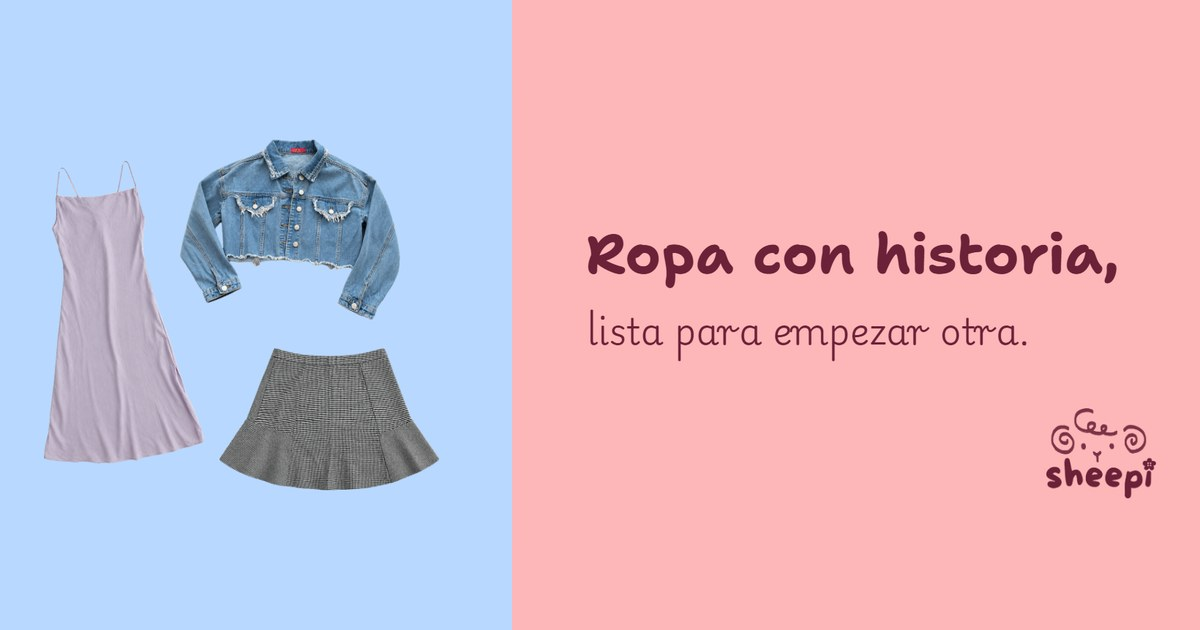
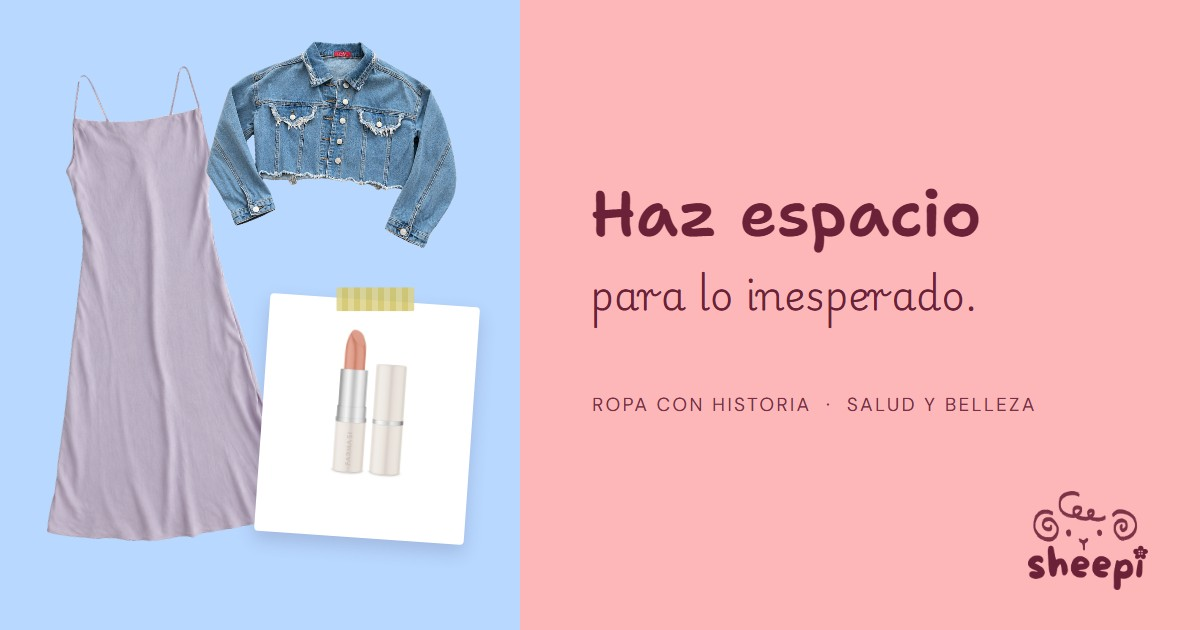
publicar: 2026-11-24T18:23:49.620Z

diff --git a/index.html b/index.html
@@ -2,8 +2,8 @@
 <html lang="es">
 <head>
 <meta charset="utf-8"><meta name="referrer" content="no-referrer"><meta name="viewport" content="width=device-width, initial-scale=1">
-<meta name="description" content="Sheepi · ropa con historia en Panamá y Salud y belleza por pedido. Elige tus favoritas y coordina por WhatsApp.">
-<meta name="theme-color" content="#F9EFE6"><meta property="og:site_name" content="Sheepi"><meta property="og:title" content="Sheepi · Tienda en Panamá"><meta property="og:locale" content="es_PA"><meta property="og:description" content="Ropa con historia, lista para empezar otra."><meta property="og:url" content="https://sheepipty.github.io/"><meta property="og:type" content="website"><meta property="og:image" content="https://sheepipty.github.io/vista-previa.jpg?v=2"><meta property="og:image:width" content="1200"><meta property="og:image:height" content="630"><meta property="og:image:alt" content="Sheepi: prendas y logo de la oveja sobre fondo rosa y celeste"><meta name="twitter:card" content="summary_large_image">
+<meta name="description" content="Sheepi · Haz espacio para lo inesperado. Ropa con historia y Salud y belleza por pedido en Panamá; elige tus favoritos y coordina por WhatsApp.">
+<meta name="theme-color" content="#F9EFE6"><meta property="og:site_name" content="Sheepi"><meta property="og:title" content="Sheepi · Tienda en Panamá"><meta property="og:locale" content="es_PA"><meta property="og:description" content="Haz espacio para lo inesperado."><meta property="og:url" content="https://sheepipty.github.io/"><meta property="og:type" content="website"><meta property="og:image" content="https://sheepipty.github.io/vista-previa.jpg?v=3"><meta property="og:image:width" content="1200"><meta property="og:image:height" content="630"><meta property="og:image:alt" content="Sheepi · Haz espacio para lo inesperado: prendas, un labial y el logo de la oveja sobre fondo celeste y rosa"><meta name="twitter:card" content="summary_large_image">
 <title>Sheepi</title><link rel="icon" href="favicon.ico?v=2" sizes="any"><link rel="icon" type="image/png" sizes="32x32" href="favicon-32.png?v=2"><link rel="apple-touch-icon" href="apple-touch-icon.png?v=2">
 <link rel="preconnect" href="https://fonts.googleapis.com"><link rel="preconnect" href="https://fonts.gstatic.com" crossorigin>
 <link rel="stylesheet" href="https://fonts.googleapis.com/css2?family=Shantell+Sans:wght@600;700&family=Playwrite+ES:wght@300;400&family=DM+Sans:opsz,wght@9..40,400;9..40,500;9..40,600&display=swap">
@@ -35,7 +35,7 @@
   <div id="carrusel" class="carrusel" aria-roledescription="carrusel" aria-label="Recién llegadas"><div id="pista" class="pista"></div></div><div id="puntos" class="puntos" role="group" aria-label="Elegir posición del carrusel"></div>
 </section>
 <section id="seccion-catalogo" aria-label="Catálogo">
-  <div class="sec-cab titulo-catalogo"><h2>Encuentra tu favorita</h2></div>
+  <div class="sec-cab titulo-catalogo"><h2>Encuentra tu favorita</h2><p id="sublema" class="sublema"></p></div>
   <p id="aviso" role="status" aria-live="polite">Cargando catálogo…</p>
   <nav id="lineas" class="lineas" aria-label="Líneas de productos" hidden></nav>
   <div class="tienda"><nav class="grupos" aria-label="Categorías"><ol id="categorias"></ol></nav><div class="contenido">

diff --git a/app.js b/app.js
@@ -84,7 +84,7 @@ async function cargarDatos(){
 }
 function avisar(avisos){if(!avisos.length)return;avisosBolsa=avisos.join(' ');$('#aviso-bolsa').textContent=avisosBolsa;$('#aviso').textContent=[$('#aviso').textContent,avisosBolsa].filter(Boolean).join(' ');}
 function marca(){
-  const nombre=datos.marca||CONFIG.MARCA;$('#marca').setAttribute('aria-label',nombre+', inicio');document.title=nombre+' · Ropa con historia';
+  const nombre=datos.marca||CONFIG.MARCA;$('#marca').setAttribute('aria-label',nombre+', inicio');document.title=nombre+' · Haz espacio para lo inesperado';
   $('#retiro').textContent=datos.retiro||'Retiro coordinado por WhatsApp';
   $('#promocion').textContent='Promoción vigente · combo de 3 prendas distintas por '+dinero(datos.combos[3])+' o 5 por '+dinero(datos.combos[5]);
   const redes=$('#redes');redes.replaceChildren();
@@ -114,7 +114,10 @@ function listaGrupos(l=linea){
 function desdeUrl(){let h='';try{h=decodeURIComponent(location.hash.slice(1));}catch(e){}const g=listaGrupos().find(([v])=>slug(v)===h);categoria=g?g[0]:'Todas';}
 function elegirGrupo(valor){categoria=valor;talla='Todas';const url=valor==='Todas'?location.pathname+location.search:'#'+slug(valor);history.pushState(null,'',url);pintarFiltros();pintarCuadricula();}
 function cambiarLinea(valor){linea=valor;categoria='Todas';talla='Todas';history.replaceState(null,'',location.pathname+location.search);pintarFiltros();pintarCuadricula();}
+/* Lema de marca (D048): «Haz espacio para lo inesperado»; cada sección lleva su sublema. */
+const SUBLEMAS={Ropa:'Ropa con historia, lista para empezar otra.','Salud y belleza':'Tus favoritos, por pedido.'};
 function pintarFiltros(){
+  $('#sublema').textContent=SUBLEMAS[linea]||'';
   ajustarLinea();const lineas=[...new Set(datos.articulos.map(a=>a.linea))], nav=$('#lineas');nav.hidden=lineas.length<=1;nav.replaceChildren();
   for(const l of lineas){const b=boton(nombreSeccion(l));b.dataset.linea=l;b.setAttribute('aria-pressed',String(l===linea));nav.append(b);}
   const grupos=listaGrupos();if(!grupos.some(([g])=>g===categoria))categoria='Todas';

diff --git a/estilos.css b/estilos.css
@@ -76,3 +76,7 @@ dialog{padding:24px;border:1px solid var(--linea);background:var(--crema);color:
 @media(max-width:760px){#recientes .sec-cab{flex-wrap:nowrap;align-items:center}#recientes .sec-cab h2 small{display:inline;font-size:16px;margin-left:6px}#recientes .flecha{display:none}#recientes .controles{gap:10px}}
 .pista>.prod h3{white-space:nowrap;overflow:hidden;text-overflow:ellipsis}
 @media(max-width:760px){#recientes .sec-cab h2{white-space:nowrap;font-size:20px}#recientes .sec-cab h2 small{font-size:15px}#recientes .controles{max-width:none;flex-wrap:nowrap}}
+
+/* Sublema por sección bajo el título del catálogo (2026-11-24). */
+.titulo-catalogo{flex-wrap:wrap;align-items:baseline;justify-content:flex-start;gap:4px 18px}.sublema{font-family:var(--cursiva);font-size:18px;margin:0}.sublema:empty{display:none}
+@media(max-width:760px){.sublema{font-size:15px;flex-basis:100%}}
